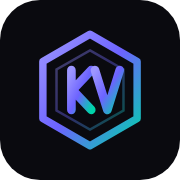
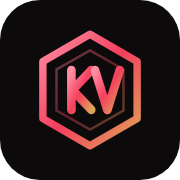
feat: switch the site to a red palette
Shades are picked by measured contrast rather than by eye, because red on a
dark ground is easy to get wrong.

- Rose (#f43f5e) for anything sitting as text or a border on the page, at
  5.37:1.
- A deeper rose (#be123c) for solid fills. The bright tone only reaches 3.67:1
  under a white label, so buttons, the nav CTA and the skip link use the darker
  one and clear 4.5:1. Both are the same hue; an orange-red like #b91c1c scored
  better but clashed against the pink-red.
- Gold (#e0a458) replaces the teal second accent, so company names and
  certification issuers separate from the accent rather than blending into it.
- The dark base moves off its blue tint (#0a0a0f to #0d0a0c) and the muted text
  from a cool to a warm grey, so nothing fights the red.
- Logo gradient, favicon, app icon, Open Graph card and the print override are
  all recoloured to match.

Every text element on the page was then measured in the browser and passes
WCAG AA: body 7.30, tag chips 6.15, buttons 6.29, stat numbers 5.08.

Claude-Session: https://claude.ai/code/session_01SXPTGDyKskrWLjjYAbuJVV

Changed region(s): [[0.1944, 0.1667, 0.8056, 0.8333], [0.3056, 0.2778, 0.6944, 0.7222]]

diff --git a/src/style.css b/src/style.css
@@ -37,14 +37,20 @@
 }
 
 :root {
-  --bg: #0a0a0f;
-  --bg-card: #12121a;
-  --bg-dark: #080810;
-  --accent: #6c63ff;
-  --accent-dim: rgba(108, 99, 255, 0.15);
-  --accent2: #00d4aa;
-  --text: #e8e8f0;
-  --text-muted: #8888aa;
+  --bg: #0d0a0c;
+  --bg-card: #171114;
+  --bg-dark: #0a0709;
+  /* Rose for anything that sits as text or a border on the dark ground
+     (5.37:1). Solid fills need a deeper tone of the same hue so a white
+     label clears 4.5:1 — the bright rose only manages 3.67:1 under white. */
+  --accent: #f43f5e;
+  --accent-strong: #be123c;
+  --accent-dim: rgba(244, 63, 94, 0.15);
+  /* Gold rather than a second red: it separates company names and issuers
+     from the accent instead of blending into it. */
+  --accent2: #e0a458;
+  --text: #f2e9eb;
+  --text-muted: #a89a9e;
   --border: rgba(255, 255, 255, 0.07);
   --radius: 12px;
   --nav-h: 64px;
@@ -153,7 +159,7 @@ body {
     color var(--transition);
 }
 .nav-links a.nav-cta:hover {
-  background: var(--accent);
+  background: var(--accent-strong);
   color: #fff;
 }
 .nav-toggle {
@@ -222,7 +228,7 @@ body {
   right: -10%;
   width: 600px;
   height: 600px;
-  background: radial-gradient(circle, rgba(108, 99, 255, 0.12) 0%, transparent 70%);
+  background: radial-gradient(circle, rgba(244, 63, 94, 0.12) 0%, transparent 70%);
   pointer-events: none;
 }
 #hero::after {
@@ -307,13 +313,13 @@ body {
   border: none;
 }
 .btn-primary {
-  background: var(--accent);
+  background: var(--accent-strong);
   color: #fff;
 }
 .btn-primary:hover {
   background: #5a52e0;
   transform: translateY(-2px);
-  box-shadow: 0 8px 24px rgba(108, 99, 255, 0.35);
+  box-shadow: 0 8px 24px rgba(244, 63, 94, 0.35);
 }
 .btn-outline {
   border: 1px solid var(--border);
@@ -401,7 +407,7 @@ body {
   border-radius: var(--radius);
   border: 1px solid var(--border);
   box-shadow:
-    0 0 0 1px rgba(108, 99, 255, 0.12),
+    0 0 0 1px rgba(244, 63, 94, 0.12),
     0 18px 40px rgba(0, 0, 0, 0.45);
 }
 .about-text p {
@@ -494,7 +500,7 @@ body {
   transition: border-color var(--transition);
 }
 .timeline-card:hover {
-  border-color: rgba(108, 99, 255, 0.3);
+  border-color: rgba(244, 63, 94, 0.3);
 }
 .timeline-header {
   display: flex;
@@ -570,7 +576,7 @@ body {
   transform: translateY(0);
 }
 .skill-category:hover {
-  border-color: rgba(108, 99, 255, 0.3);
+  border-color: rgba(244, 63, 94, 0.3);
 }
 .skill-cat-icon {
   font-size: 1.75rem;
@@ -637,7 +643,7 @@ body {
   transform: translateY(0);
 }
 .cert-card:hover {
-  border-color: rgba(108, 99, 255, 0.3);
+  border-color: rgba(244, 63, 94, 0.3);
   transform: translateY(-4px);
 }
 .cert-icon {
@@ -691,7 +697,7 @@ body {
   transform: translateY(0);
 }
 .project-card:hover {
-  border-color: rgba(108, 99, 255, 0.3);
+  border-color: rgba(244, 63, 94, 0.3);
   transform: translateY(-4px);
 }
 .project-icon {
@@ -849,7 +855,7 @@ footer {
   left: 1rem;
   z-index: 200;
   padding: 0.75rem 1.25rem;
-  background: var(--accent);
+  background: var(--accent-strong);
   color: #fff;
   font-weight: 600;
   border-radius: 0 0 var(--radius) var(--radius);
@@ -903,13 +909,13 @@ button:focus-visible,
   font-weight: 600;
   color: var(--accent);
   text-decoration: none;
-  border: 1px solid rgba(108, 99, 255, 0.35);
+  border: 1px solid rgba(244, 63, 94, 0.35);
   border-radius: 999px;
   padding: 0.35rem 0.85rem;
   transition: background 0.3s ease;
 }
 .project-live:hover {
-  background: rgba(108, 99, 255, 0.12);
+  background: rgba(244, 63, 94, 0.12);
 }
 
 /* ===================================================================
@@ -994,7 +1000,7 @@ html:not(.js-reveal) .project-card {
     --text: #111;
     --text-muted: #444;
     --border: #bbb;
-    --accent: #3b34c4;
+    --accent: #a3123a;
   }
   body {
     background: #fff;

diff --git a/index.html b/index.html
@@ -91,9 +91,9 @@
           <svg viewBox="0 0 100 100" aria-hidden="true" focusable="false">
             <defs>
               <linearGradient id="navmark" x1="0" y1="0" x2="1" y2="1">
-                <stop offset="0" stop-color="#9d96ff" />
-                <stop offset=".5" stop-color="#6c63ff" />
-                <stop offset="1" stop-color="#00d4aa" />
+                <stop offset="0" stop-color="#ff8fa3" />
+                <stop offset=".5" stop-color="#f43f5e" />
+                <stop offset="1" stop-color="#e0a458" />
               </linearGradient>
             </defs>
             <path d="M50 5 L88 27 L88 73 L50 95 L12 73 L12 27 Z" />
